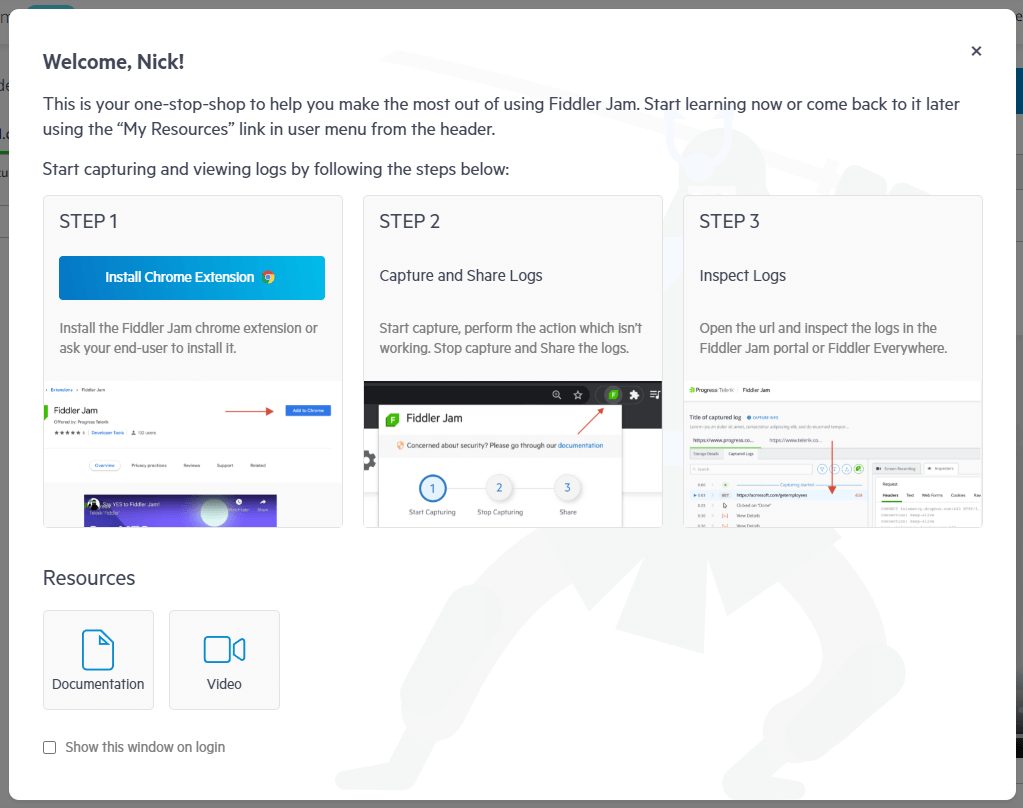
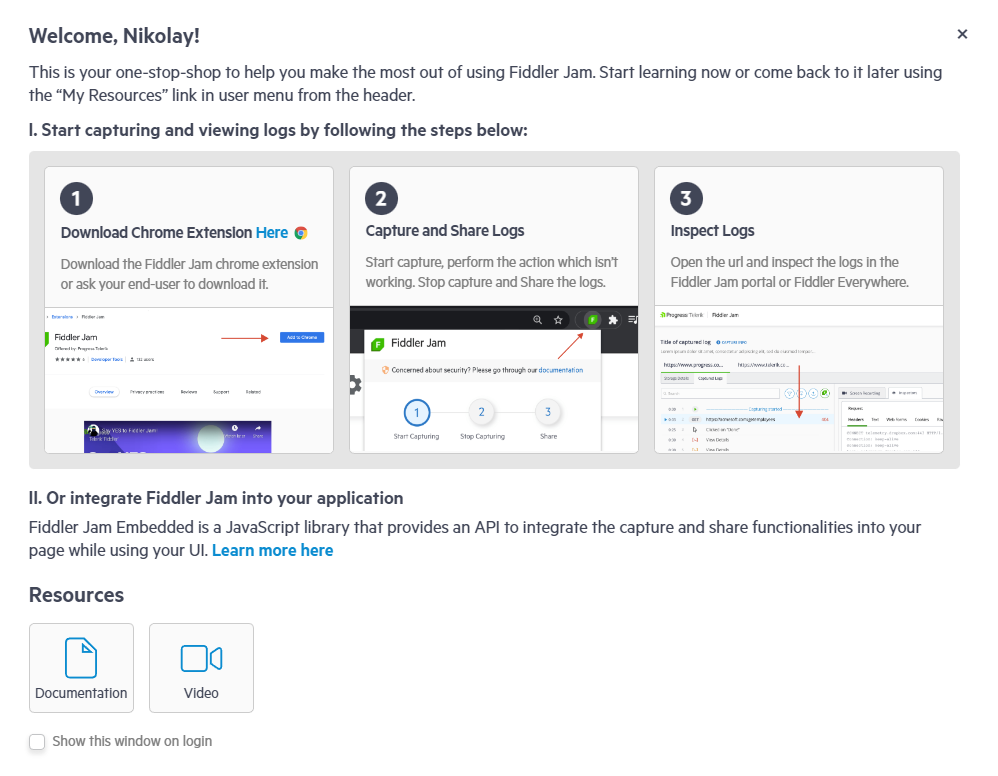
update My Resouce4s section

Changed region(s): [[0.0, 0.0, 1.0, 1.0], [0.7455, 0.1856, 0.9629, 0.2474], [0.9319, 0.4639, 0.9629, 0.4948]]

diff --git a/portal/portal-menu.md b/portal/portal-menu.md
@@ -18,7 +18,7 @@ The Jam portal menu is located in the top-right corner of the page.
 
 ## Feedback
 
-**Feedback** displays options for collecting information from the users regarding the Fiddler Jam Portal experience such as its features, documentation, and so on. Leaving a comment with additional details is optional if your feedback is positive, and mandatory if your feedback is neutral or straightforward negative.
+**Feedback** displays options for collecting information from the users regarding the Fiddler Jam Portal experience, such as its features, documentation, etc. Leaving a comment with additional details is optional if your feedback is positive and mandatory if your feedback is neutral or straightforward negative.
 
 ![Feedback option](../images/portal/menu/menu-feedback.png)
 
@@ -30,7 +30,7 @@ All Fiddler Jam portal users can submit a support ticket through the **Contact S
 
 The **Report Issue** functionality allows you to send a detailed Fiddler Jam log with HTTPS capturing, screenshots of the user interactions, and video recording from a selected page within the Fiddler Jam portal. Use this option to report any issues, leave feedback, or suggest improvements related to the Fiddler Jam portal. The core team developers and support engineers review the submitted logs regularly. [Learn more about how to submit an issue here...]({%slug fj-report-issue%})
 
->tip Behind the scenes, the used technology is called **Fiddler Jam Embedded** and this option demonstrates how you can integrate Fiddler Jam logs directly into your website. 
+>tip Behind the scenes, the used technology is called **Fiddler Jam Embedded**, and this option demonstrates how you can integrate Fiddler Jam logs directly into your website. 
 
 ![Report Issue](../images/portal/menu/menu-report-issue.png)
 
@@ -69,6 +69,10 @@ The options provide quick links to the following legal documents:
 
 ![Legal links](../images/portal/menu/menu-legal.png)
 
+#### Integrations
+
+The option provide quick login links for the [third-party tracking solution systems]({%slug fj-integrations%}).
+
 
 ### My Resources
 
@@ -78,4 +82,4 @@ The options provide quick links to the following legal documents:
 
 ### Sign Out
 
-**Sign Out** allows you to log out of the currently logged user and navigate to an introduction page that provides options for creating a new user or for using another account.
+**Sign Out** allows you to log out of the currently logged user and navigate to an introduction page that provides options for creating a new user or using another account.
